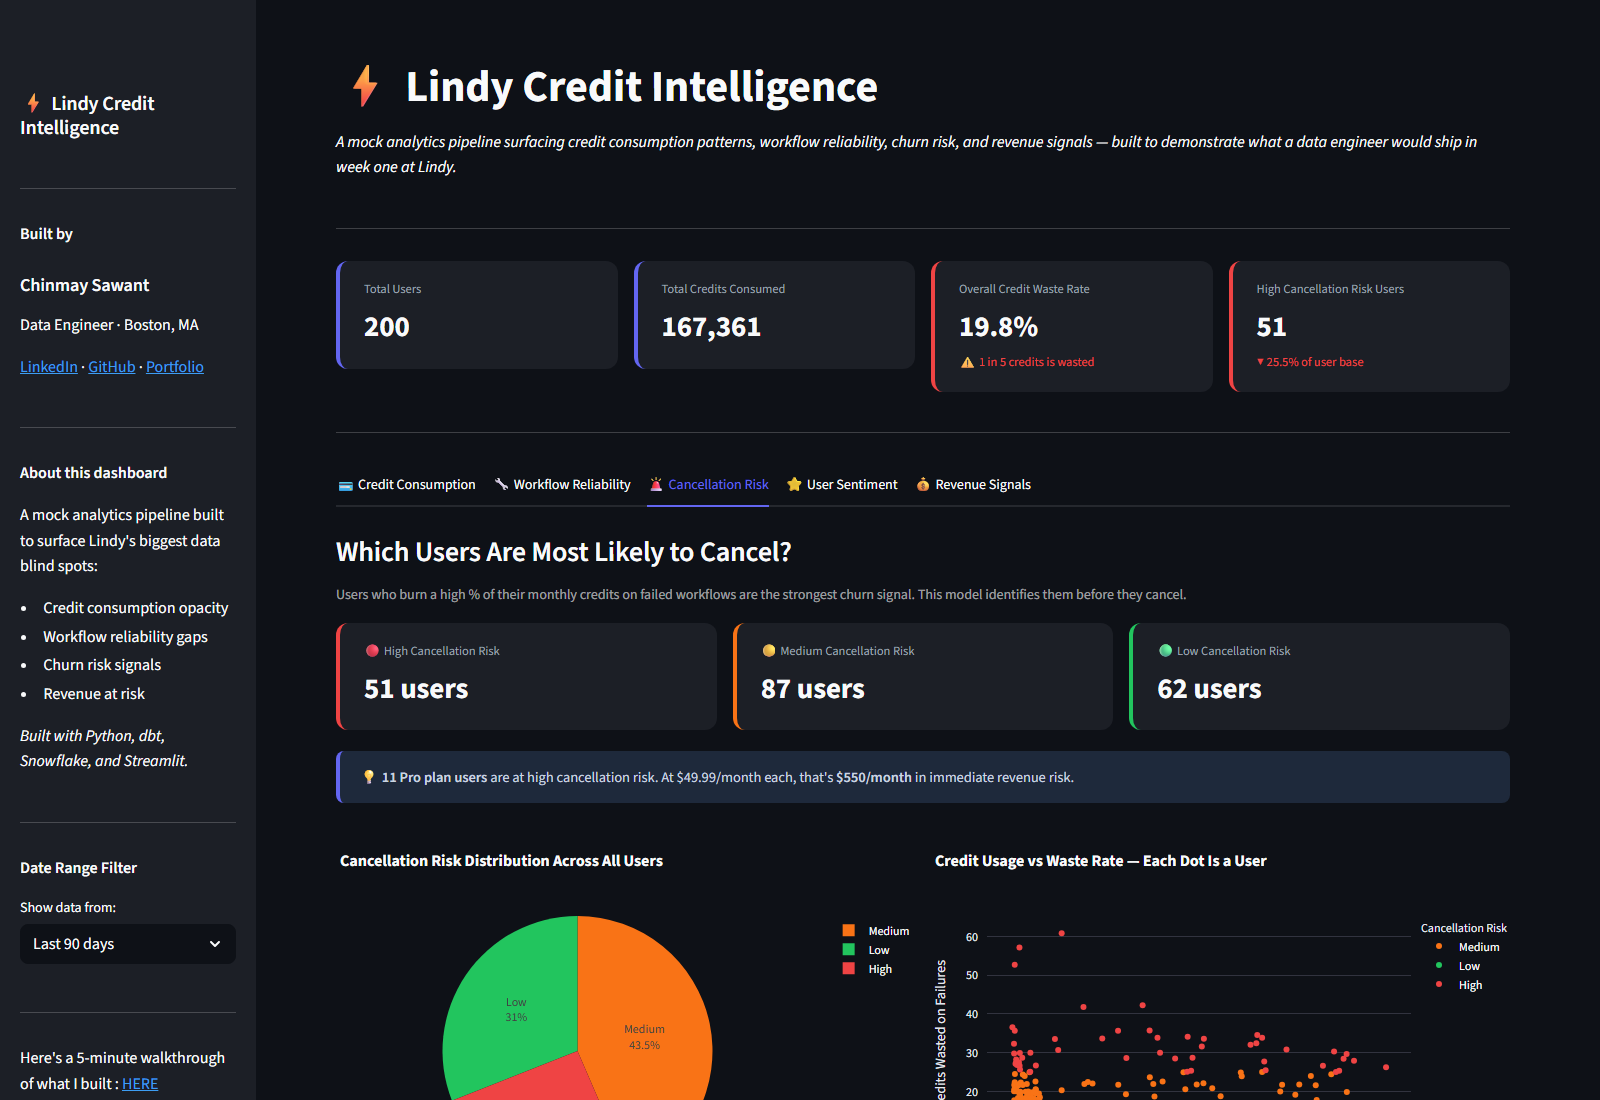
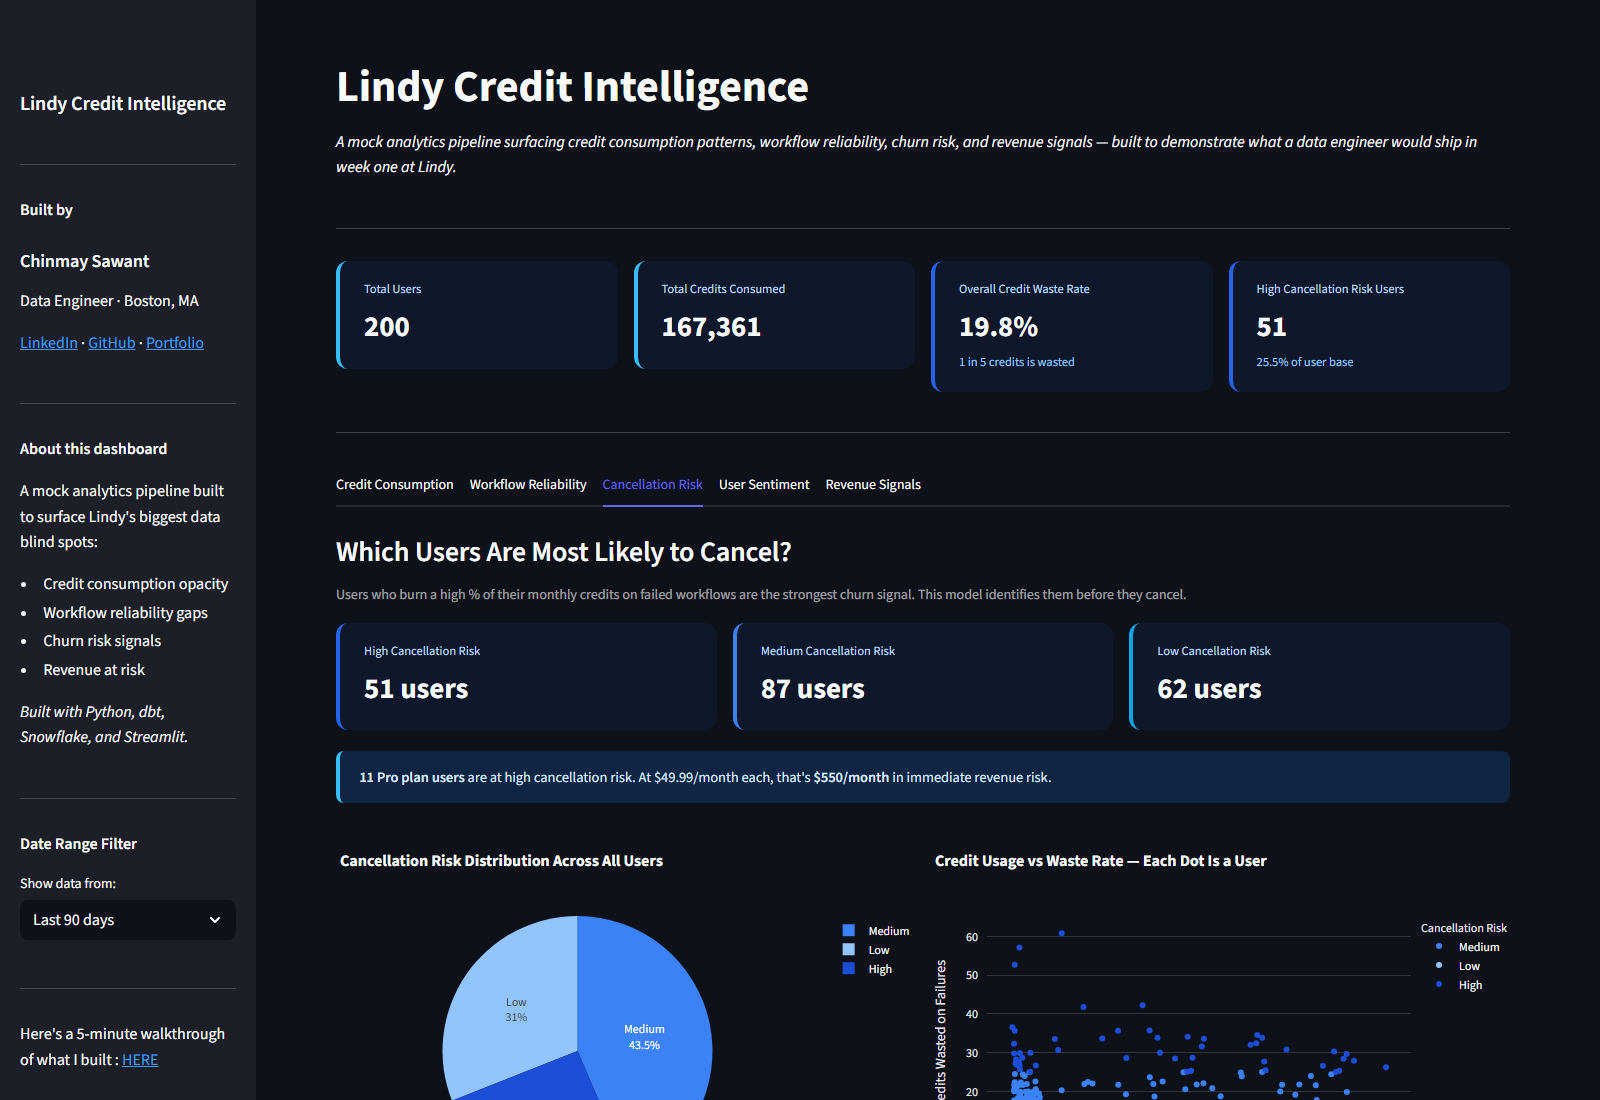
Unify dashboard blue theme

diff --git a/dashboard/dashboard/app.py b/dashboard/dashboard/app.py
@@ -46,34 +46,38 @@ WORKFLOW_LABELS = {
     "document_processing": "Document Processing",
 }
 T = "plotly_dark"
+BLUE_SEQUENCE = ["#38bdf8", "#0ea5e9", "#3b82f6", "#2563eb", "#1d4ed8", "#1e40af"]
+BLUE_CONTINUOUS = ["#dbeafe", "#93c5fd", "#38bdf8", "#2563eb", "#172554"]
+BLUE_RISK = {"High": "#1d4ed8", "Medium": "#3b82f6", "Low": "#93c5fd"}
+BLUE_SENTIMENT = {"Positive": "#38bdf8", "Negative": "#2563eb", "Neutral": "#93c5fd"}
 
-st.set_page_config(page_title="Lindy Credit Intelligence", page_icon="⚡", layout="wide")
+st.set_page_config(page_title="Lindy Credit Intelligence", layout="wide")
 
 # ── CSS ──────────────────────────────────────────────────
 st.markdown("""
 <style>
-  .main { background:#0e1117; }
+  .main { background:#07111f; }
   .block-container { padding-top:1.5rem; }
   .kpi-card {
-      background:#1c1f26; border-radius:12px; padding:1.2rem 1.5rem;
-      border-left:4px solid #6366f1; margin-bottom:0.5rem;
+      background:#0f172a; border-radius:12px; padding:1.2rem 1.5rem;
+      border-left:4px solid #38bdf8; margin-bottom:0.5rem;
   }
-  .kpi-card.red   { border-left-color:#ef4444; }
-  .kpi-card.green { border-left-color:#22c55e; }
-  .kpi-card.amber { border-left-color:#f97316; }
-  .kpi-card.indigo{ border-left-color:#6366f1; }
-  .kpi-label { font-size:0.78rem; color:#9ca3af; margin-bottom:0.2rem; }
+  .kpi-card.red   { border-left-color:#2563eb; }
+  .kpi-card.green { border-left-color:#0ea5e9; }
+  .kpi-card.amber { border-left-color:#3b82f6; }
+  .kpi-card.indigo{ border-left-color:#38bdf8; }
+  .kpi-label { font-size:0.78rem; color:#bfdbfe; margin-bottom:0.2rem; }
   .kpi-value { font-size:1.8rem; font-weight:700; color:#f9fafb; }
   .kpi-delta { font-size:0.78rem; margin-top:0.2rem; }
   .insight-box {
-      background:#1e293b; border-left:4px solid #6366f1;
+      background:#0f2544; border-left:4px solid #38bdf8;
       border-radius:8px; padding:0.9rem 1.2rem; margin:0.8rem 0;
-      color:#cbd5e1; font-size:0.9rem;
+      color:#dbeafe; font-size:0.9rem;
   }
   .takeaway-box {
-      background:#172033; border:1px solid #334155;
+      background:#0b1f3a; border:1px solid #1d4ed8;
       border-radius:10px; padding:1rem 1.4rem; margin-top:1rem;
-      color:#94a3b8; font-size:0.88rem;
+      color:#bfdbfe; font-size:0.88rem;
   }
   .takeaway-box h4 { color:#e2e8f0; margin-bottom:0.4rem; }
   [data-testid="stMetricValue"] { font-size:1.8rem; font-weight:700; }
@@ -83,7 +87,7 @@ st.markdown("""
 
 # ── Helpers ──────────────────────────────────────────────
 def kpi(label, value, color="indigo", delta=None):
-    delta_html = f'<div class="kpi-delta" style="color:{"#22c55e" if "▲" in str(delta) else "#ef4444"}">{delta}</div>' if delta else ""
+    delta_html = f'<div class="kpi-delta" style="color:#93c5fd">{delta}</div>' if delta else ""
     st.markdown(f"""
     <div class="kpi-card {color}">
       <div class="kpi-label">{label}</div>
@@ -91,8 +95,8 @@ def kpi(label, value, color="indigo", delta=None):
       {delta_html}
     </div>""", unsafe_allow_html=True)
 
-def insight(text): st.markdown(f'<div class="insight-box">💡 {text}</div>', unsafe_allow_html=True)
-def takeaway(title, text): st.markdown(f'<div class="takeaway-box"><h4>📌 {title}</h4>{text}</div>', unsafe_allow_html=True)
+def insight(text): st.markdown(f'<div class="insight-box">{text}</div>', unsafe_allow_html=True)
+def takeaway(title, text): st.markdown(f'<div class="takeaway-box"><h4>{title}</h4>{text}</div>', unsafe_allow_html=True)
 
 st.cache_data.clear()
 # ── Data loader ──────────────────────────────────────────
@@ -141,7 +145,7 @@ users, events, credits, reviews = load_raw()
 
 # ── Sidebar ──────────────────────────────────────────────
 with st.sidebar:
-    st.markdown("## ⚡ Lindy Credit Intelligence")
+    st.markdown("## Lindy Credit Intelligence")
     st.markdown("---")
     st.markdown("**Built by**")
     st.markdown("### Chinmay Sawant")
@@ -205,7 +209,7 @@ user_health["monthly_revenue"] = user_health["plan_type"].map(PLAN_PRICE)
 high_risk_users = (user_health["churn_risk"]=="High").sum()
 
 # ── Header ───────────────────────────────────────────────
-st.markdown("# ⚡ Lindy Credit Intelligence")
+st.markdown("# Lindy Credit Intelligence")
 st.markdown("*A mock analytics pipeline surfacing credit consumption patterns, workflow reliability, churn risk, and revenue signals — built to demonstrate what a data engineer would ship in week one at Lindy.*")
 st.divider()
 
@@ -213,18 +217,18 @@ st.divider()
 c1, c2, c3, c4 = st.columns(4)
 with c1: kpi("Total Users",                  f"{total_users:,}", "indigo")
 with c2: kpi("Total Credits Consumed",       f"{total_credits:,.0f}", "indigo")
-with c3: kpi("Overall Credit Waste Rate",    f"{waste_rate:.1f}%", "red", "⚠ 1 in 5 credits is wasted")
-with c4: kpi("High Cancellation Risk Users", f"{high_risk_users:,}", "red", f"▼ {high_risk_users/total_users*100:.1f}% of user base")
+with c3: kpi("Overall Credit Waste Rate",    f"{waste_rate:.1f}%", "red", "1 in 5 credits is wasted")
+with c4: kpi("High Cancellation Risk Users", f"{high_risk_users:,}", "red", f"{high_risk_users/total_users*100:.1f}% of user base")
 
 st.divider()
 
 # ── Tabs ─────────────────────────────────────────────────
 t1, t2, t3, t4, t5 = st.tabs([
-    "💳 Credit Consumption",
-    "🔧 Workflow Reliability",
-    "🚨 Cancellation Risk",
-    "⭐ User Sentiment",
-    "💰 Revenue Signals"
+    "Credit Consumption",
+    "Workflow Reliability",
+    "Cancellation Risk",
+    "User Sentiment",
+    "Revenue Signals"
 ])
 
 # TAB 1 — Credit Consumption
@@ -250,13 +254,14 @@ with t1:
         fig = px.bar(credit_by_wf, x="workflow_type_label", y="total_credits",
                      title="Total Credits Consumed by Workflow Type",
                      color="workflow_type_label", text_auto=True, template=T,
+                     color_discrete_sequence=BLUE_SEQUENCE,
                      labels={"workflow_type_label":"Workflow","total_credits":"Credits Consumed"})
         fig.update_layout(showlegend=False, xaxis_tickangle=-20)
         st.plotly_chart(fig, use_container_width=True)
     with col2:
         fig2 = px.bar(credit_by_wf, x="workflow_type_label", y="pct_wasted",
                       title="% of Credits Wasted per Workflow Type",
-                      color="pct_wasted", color_continuous_scale="Reds",
+                      color="pct_wasted", color_continuous_scale=BLUE_CONTINUOUS,
                       text_auto=True, template=T,
                       labels={"workflow_type_label":"Workflow","pct_wasted":"% Wasted"})
         fig2.update_layout(xaxis_tickangle=-20)
@@ -268,9 +273,9 @@ with t1:
         credits_consumed=("credits_used","sum"), credits_wasted=("wasted","sum")).reset_index()
     fig_trend = go.Figure()
     fig_trend.add_trace(go.Scatter(x=trend["date"], y=trend["credits_consumed"],
-        mode="lines", name="Credits Consumed", line=dict(color="#6366f1", width=2)))
+        mode="lines", name="Credits Consumed", line=dict(color="#38bdf8", width=2)))
     fig_trend.add_trace(go.Scatter(x=trend["date"], y=trend["credits_wasted"],
-        mode="lines", name="Credits Wasted", line=dict(color="#ef4444", width=2, dash="dot")))
+        mode="lines", name="Credits Wasted", line=dict(color="#2563eb", width=2, dash="dot")))
     fig_trend.update_layout(template=T, title="Daily Credit Consumption vs Waste",
         xaxis_title="Date", yaxis_title="Credits", legend=dict(orientation="h"))
     st.plotly_chart(fig_trend, use_container_width=True)
@@ -309,7 +314,7 @@ with t2:
     with col1:
         fig3 = px.bar(summary, x="workflow_type", y="success_rate",
                       title="Success Rate by Workflow Type (%)",
-                      color="success_rate", color_continuous_scale="RdYlGn",
+                      color="success_rate", color_continuous_scale=BLUE_CONTINUOUS,
                       text_auto=True, template=T,
                       labels={"workflow_type":"Workflow","success_rate":"Success Rate (%)"})
         fig3.update_layout(xaxis_tickangle=-20)
@@ -320,7 +325,8 @@ with t2:
         fail_reasons.columns = ["failure_reason","count"]
         fail_reasons["failure_reason"] = fail_reasons["failure_reason"].str.replace("_"," ").str.title()
         fig4 = px.pie(fail_reasons, names="failure_reason", values="count",
-                      title="What Causes Workflow Failures?", template=T)
+                      title="What Causes Workflow Failures?", template=T,
+                      color_discrete_sequence=BLUE_SEQUENCE)
         fig4.update_traces(textposition="inside", textinfo="percent+label")
         st.plotly_chart(fig4, use_container_width=True)
     st.markdown("### Workflow Failure Rate Trend Over Time")
@@ -332,9 +338,9 @@ with t2:
     fig_rt = px.line(daily_rel, x="date", y="failure_rate",
                      title="Daily Workflow Failure Rate (%)", template=T,
                      labels={"date":"Date","failure_rate":"Failure Rate (%)"})
-    fig_rt.update_traces(line_color="#ef4444", line_width=2)
+    fig_rt.update_traces(line_color="#2563eb", line_width=2)
     fig_rt.add_hline(y=daily_rel["failure_rate"].mean(), line_dash="dot",
-                     line_color="#9ca3af", annotation_text="Avg failure rate")
+                     line_color="#93c5fd", annotation_text="Avg failure rate")
     st.plotly_chart(fig_rt, use_container_width=True)
     takeaway("What This Means for Lindy",
         "Workflow failures aren't just a product problem — they're a revenue problem. Every failed run costs the user credits and delivers nothing. Without tracking failure rates by workflow type, the engineering team can't prioritize which fixes will have the biggest impact on retention.")
@@ -350,9 +356,9 @@ with t3:
     st.subheader("Which Users Are Most Likely to Cancel?")
     st.caption("Users who burn a high % of their monthly credits on failed workflows are the strongest churn signal. This model identifies them before they cancel.")
     c1,c2,c3 = st.columns(3)
-    with c1: kpi("🔴 High Cancellation Risk",   f"{(user_health['churn_risk']=='High').sum():,} users",   "red")
-    with c2: kpi("🟡 Medium Cancellation Risk", f"{(user_health['churn_risk']=='Medium').sum():,} users", "amber")
-    with c3: kpi("🟢 Low Cancellation Risk",    f"{(user_health['churn_risk']=='Low').sum():,} users",    "green")
+    with c1: kpi("High Cancellation Risk",   f"{(user_health['churn_risk']=='High').sum():,} users",   "red")
+    with c2: kpi("Medium Cancellation Risk", f"{(user_health['churn_risk']=='Medium').sum():,} users", "amber")
+    with c3: kpi("Low Cancellation Risk",    f"{(user_health['churn_risk']=='Low').sum():,} users",    "green")
     high_pro = user_health[(user_health["churn_risk"]=="High") & (user_health["plan_type"]=="pro")].shape[0]
     insight(f"<b>{high_pro} Pro plan users</b> are at high cancellation risk. At $49.99/month each, that's <b>${high_pro*49.99:,.0f}/month</b> in immediate revenue risk.")
     col1, col2 = st.columns(2)
@@ -362,7 +368,7 @@ with t3:
         fig5 = px.pie(risk_counts, names="churn_risk", values="count",
                       title="Cancellation Risk Distribution Across All Users",
                       color="churn_risk", template=T,
-                      color_discrete_map={"High":"#ef4444","Medium":"#f97316","Low":"#22c55e"})
+                      color_discrete_map=BLUE_RISK)
         fig5.update_traces(textposition="inside", textinfo="percent+label")
         st.plotly_chart(fig5, use_container_width=True)
     with col2:
@@ -373,7 +379,7 @@ with t3:
                           labels={"pct_used":"% of Monthly Credits Used",
                                   "pct_wasted":"% of Credits Wasted on Failures",
                                   "churn_risk":"Cancellation Risk"},
-                          color_discrete_map={"High":"#ef4444","Medium":"#f97316","Low":"#22c55e"})
+                          color_discrete_map=BLUE_RISK)
         st.plotly_chart(fig6, use_container_width=True)
     st.markdown("### Churn Risk Trend")
     cr_daily = cr.merge(users, on="user_id")
@@ -385,7 +391,7 @@ with t3:
     fig_ct = px.area(daily_waste, x="date", y="waste_rate",
                      title="Daily Credit Waste Rate Trend (%)", template=T,
                      labels={"date":"Date","waste_rate":"Waste Rate (%)"})
-    fig_ct.update_traces(line_color="#ef4444", fillcolor="rgba(239,68,68,0.15)")
+    fig_ct.update_traces(line_color="#2563eb", fillcolor="rgba(37,99,235,0.18)")
     st.plotly_chart(fig_ct, use_container_width=True)
     takeaway("What This Means for Lindy",
         "Churn doesn't happen overnight — it's a pattern. Users who consistently burn credits on failed workflows lose trust in the product before they cancel. Identifying these users 2-3 weeks early creates an intervention window: a credit refund, a support outreach, or a product fix can save the account.")
@@ -413,6 +419,7 @@ with t4:
         fig7 = px.bar(avg_by_platform, x="platform", y="avg_rating",
                       title="Average Star Rating by Review Platform",
                       color="platform", text_auto=True, template=T,
+                      color_discrete_sequence=BLUE_SEQUENCE,
                       labels={"platform":"Platform","avg_rating":"Average Rating (★)"})
         fig7.update_layout(showlegend=False, yaxis_range=[0,5])
         st.plotly_chart(fig7, use_container_width=True)
@@ -425,7 +432,7 @@ with t4:
         fig8 = px.bar(sent_agg, x="platform", y="count", color="sentiment", barmode="group",
                       title="Positive vs Negative Reviews by Platform", template=T,
                       labels={"platform":"Platform","count":"Number of Reviews","sentiment":"Sentiment"},
-                      color_discrete_map={"Positive":"#22c55e","Negative":"#ef4444","Neutral":"#9ca3af"})
+                      color_discrete_map=BLUE_SENTIMENT)
         st.plotly_chart(fig8, use_container_width=True)
     st.markdown("### Sentiment Trend Over Time")
     rv["month"] = pd.to_datetime(rv["review_date"]).dt.to_period("M").astype(str)
@@ -434,7 +441,7 @@ with t4:
     fig_st = px.line(sent_trend, x="month", y="review_id", color="sentiment",
                      title="Monthly Review Volume by Sentiment", template=T,
                      labels={"month":"Month","review_id":"Number of Reviews","sentiment":"Sentiment"},
-                     color_discrete_map={"Positive":"#22c55e","Negative":"#ef4444","Neutral":"#9ca3af"})
+                     color_discrete_map=BLUE_SENTIMENT)
     st.plotly_chart(fig_st, use_container_width=True)
     takeaway("What This Means for Lindy",
         "The G2 vs Trustpilot rating gap tells a clear story: power users love Lindy, everyday users struggle with it. Closing this gap requires fixing the credit transparency problem — not just the product.")
@@ -445,6 +452,7 @@ with t4:
     fig9 = px.bar(comp, x="complaint_category", y="review_id",
                   title="Volume of Reviews by Complaint Category",
                   color="complaint_category", text_auto=True, template=T,
+                  color_discrete_sequence=BLUE_SEQUENCE,
                   labels={"complaint_category":"Category","review_id":"Reviews"})
     fig9.update_layout(showlegend=False)
     st.plotly_chart(fig9, use_container_width=True)
@@ -459,9 +467,9 @@ with t5:
     c1,c2,c3 = st.columns(3)
     with c1: kpi("Estimated Monthly Revenue",    f"${total_mrr:,.0f}", "green")
     with c2: kpi("Revenue at Risk (High Churn)", f"${at_risk_rev:,.0f}", "red",
-                 f"▼ {at_risk_rev/total_mrr*100:.1f}% of MRR" if total_mrr>0 else "")
+                 f"{at_risk_rev/total_mrr*100:.1f}% of MRR" if total_mrr>0 else "")
     with c3: kpi("Free Users Ready to Upgrade",  f"{upgrade_cands:,} users", "amber",
-                 f"▲ ${upgrade_cands*49.99:,.0f} potential MRR")
+                 f"${upgrade_cands*49.99:,.0f} potential MRR")
     insight(f"If just <b>50% of upgrade-ready free users</b> convert to Pro, that's <b>${upgrade_cands*0.5*49.99:,.0f}/month</b> in new revenue — with zero new user acquisition needed.")
     col1, col2 = st.columns(2)
     with col1:
@@ -469,7 +477,7 @@ with t5:
         rev_plan["plan_type"] = rev_plan["plan_type"].str.title()
         fig10 = px.pie(rev_plan, names="plan_type", values="monthly_revenue",
                        title="Monthly Revenue Contribution by Plan", template=T,
-                       color_discrete_sequence=["#6366f1","#22c55e","#f97316"])
+                       color_discrete_sequence=BLUE_SEQUENCE)
         fig10.update_traces(textposition="inside", textinfo="percent+label")
         st.plotly_chart(fig10, use_container_width=True)
     with col2:
@@ -482,7 +490,8 @@ with t5:
         funnel = funnel.sort_values("Credit Usage")
         fig11 = px.bar(funnel, x="Credit Usage", y="Free Users",
                        title="Free Trial Conversion Funnel — Credit Usage Buckets",
-                       color="Credit Usage", text_auto=True, template=T)
+                       color="Credit Usage", text_auto=True, template=T,
+                       color_discrete_sequence=BLUE_SEQUENCE)
         fig11.update_layout(showlegend=False)
         st.plotly_chart(fig11, use_container_width=True)
     st.markdown("### Monthly Revenue at Risk Trend")
@@ -495,7 +504,7 @@ with t5:
     fig12 = px.area(rev_trend, x="month", y="revenue_at_risk",
                     title="Estimated Monthly Revenue at Risk from Credit Waste", template=T,
                     labels={"month":"Month","revenue_at_risk":"Revenue at Risk ($)"})
-    fig12.update_traces(line_color="#ef4444", fillcolor="rgba(239,68,68,0.15)")
+    fig12.update_traces(line_color="#2563eb", fillcolor="rgba(37,99,235,0.18)")
     st.plotly_chart(fig12, use_container_width=True)
     takeaway("What This Means for Lindy",
         "Revenue at risk isn't a future problem — it's happening now. High-churn users represent real MRR that can be saved with proactive intervention. Free users hitting their credit ceiling are the highest-probability upgrade candidates in the funnel.")
